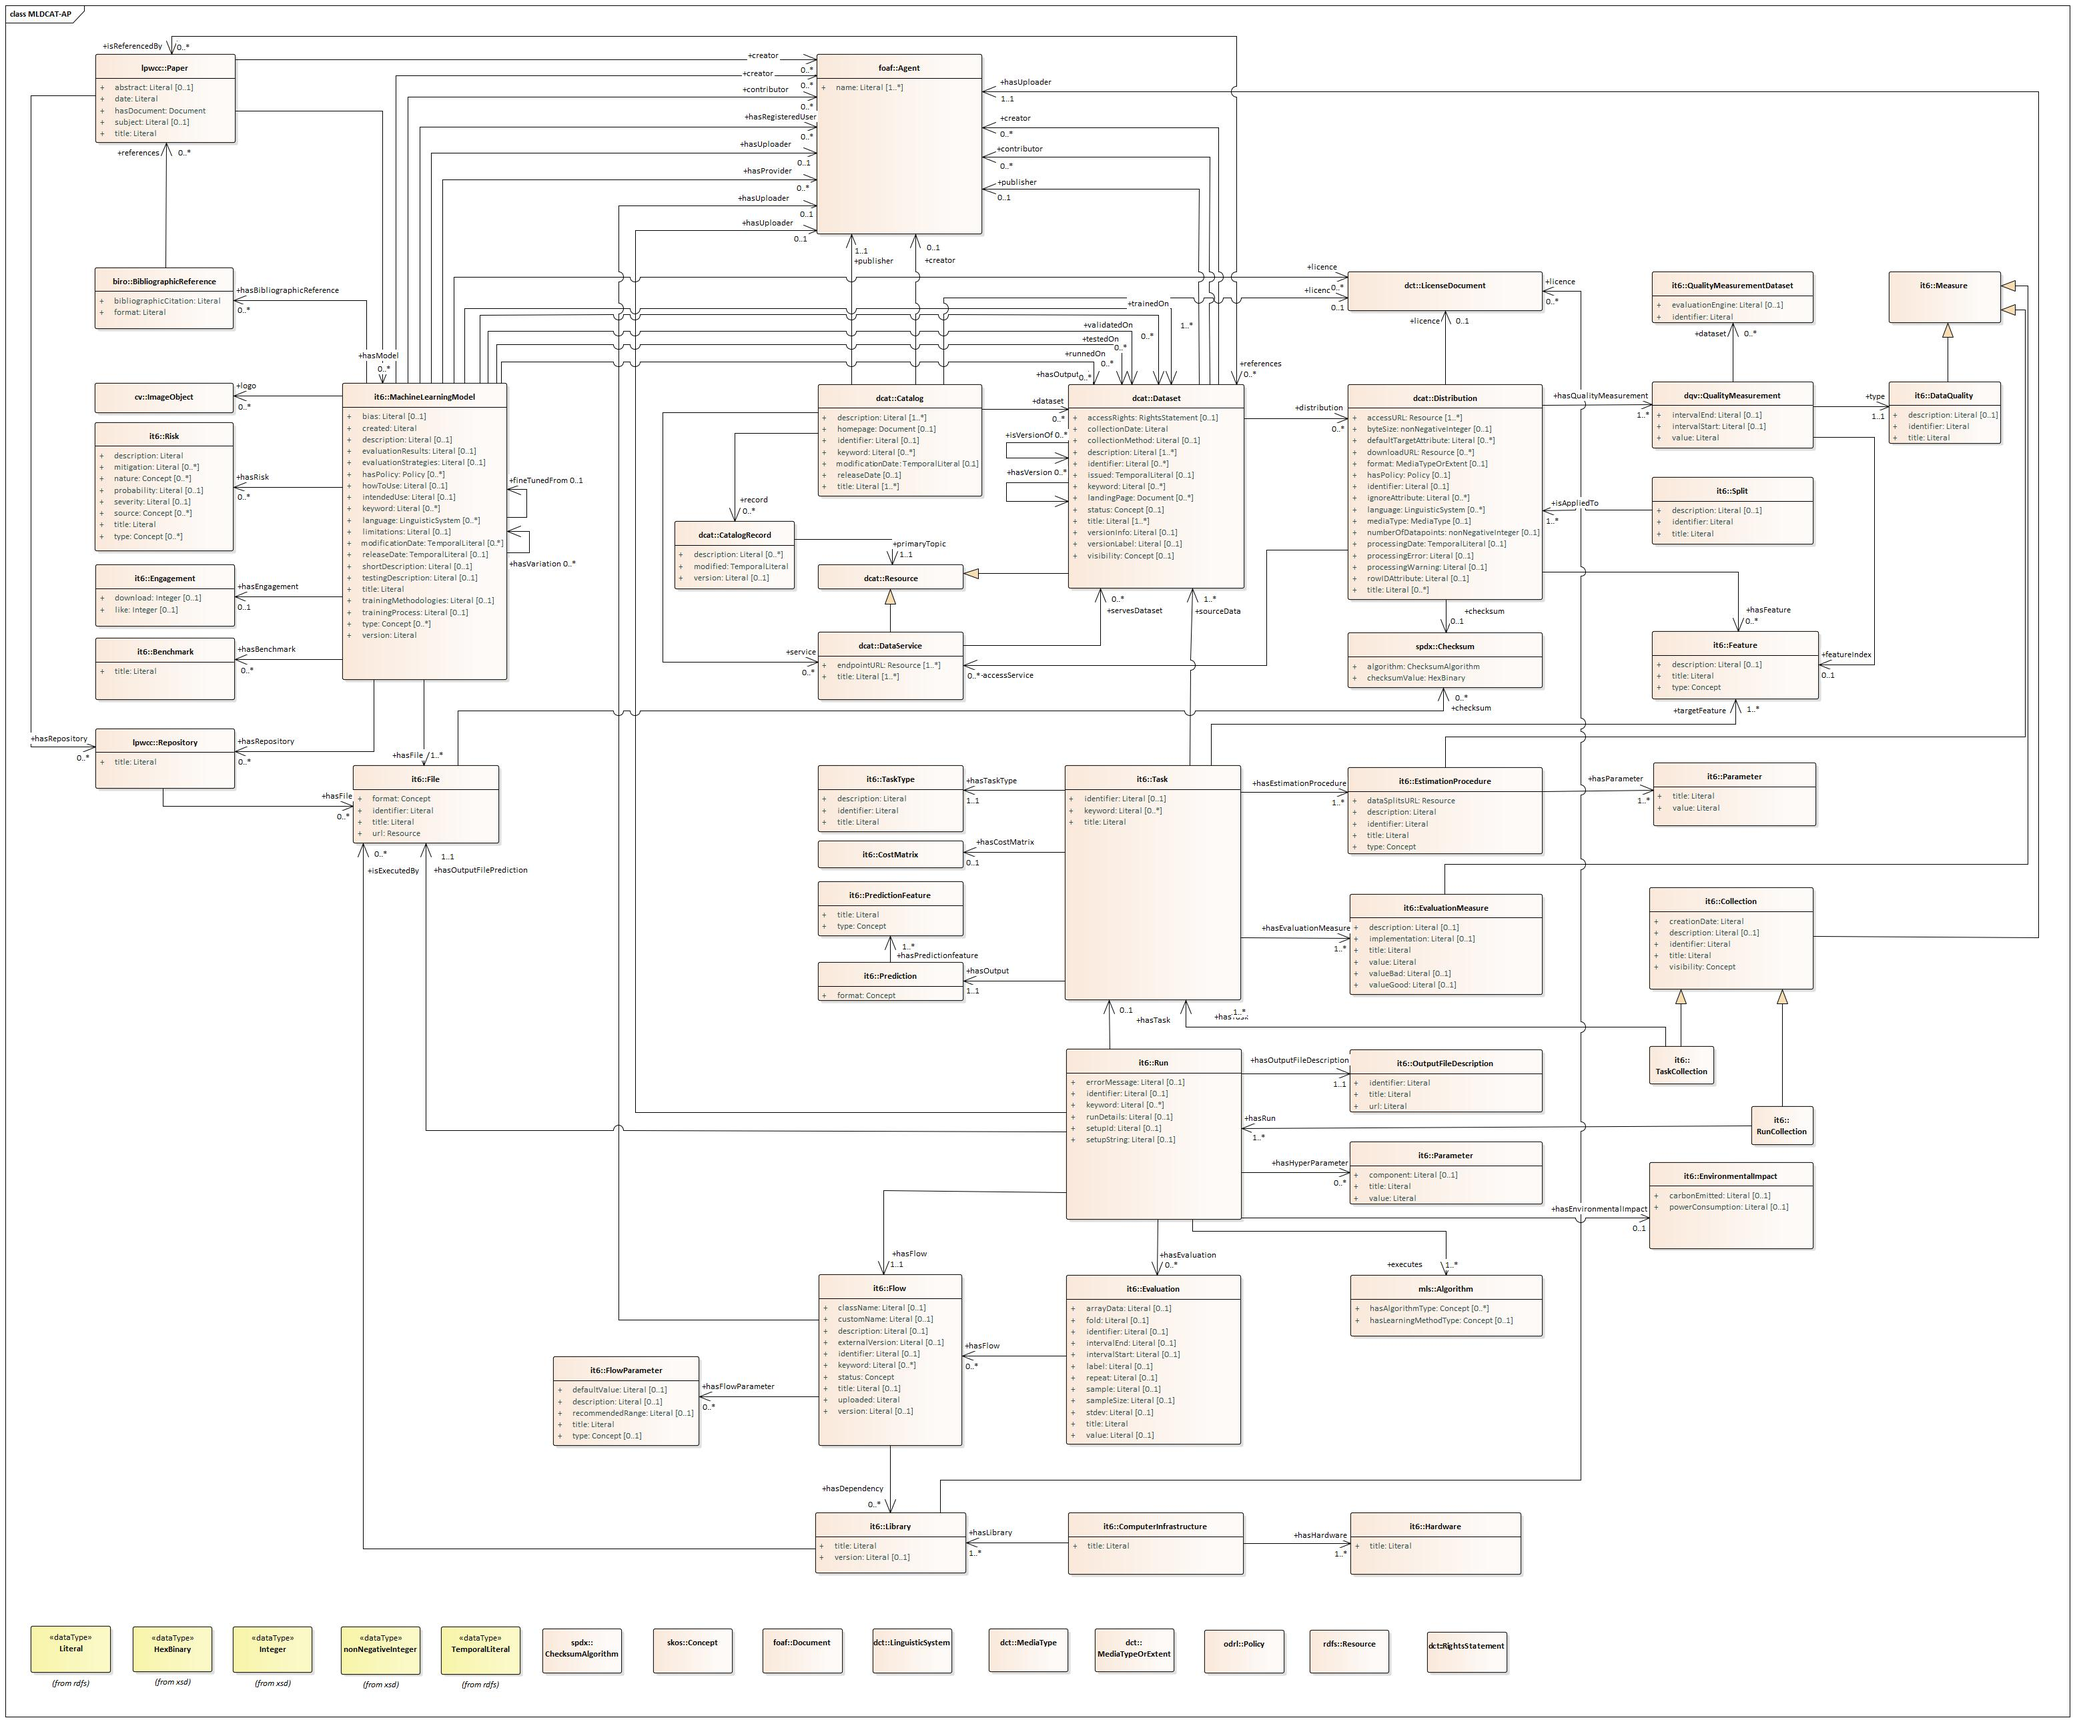
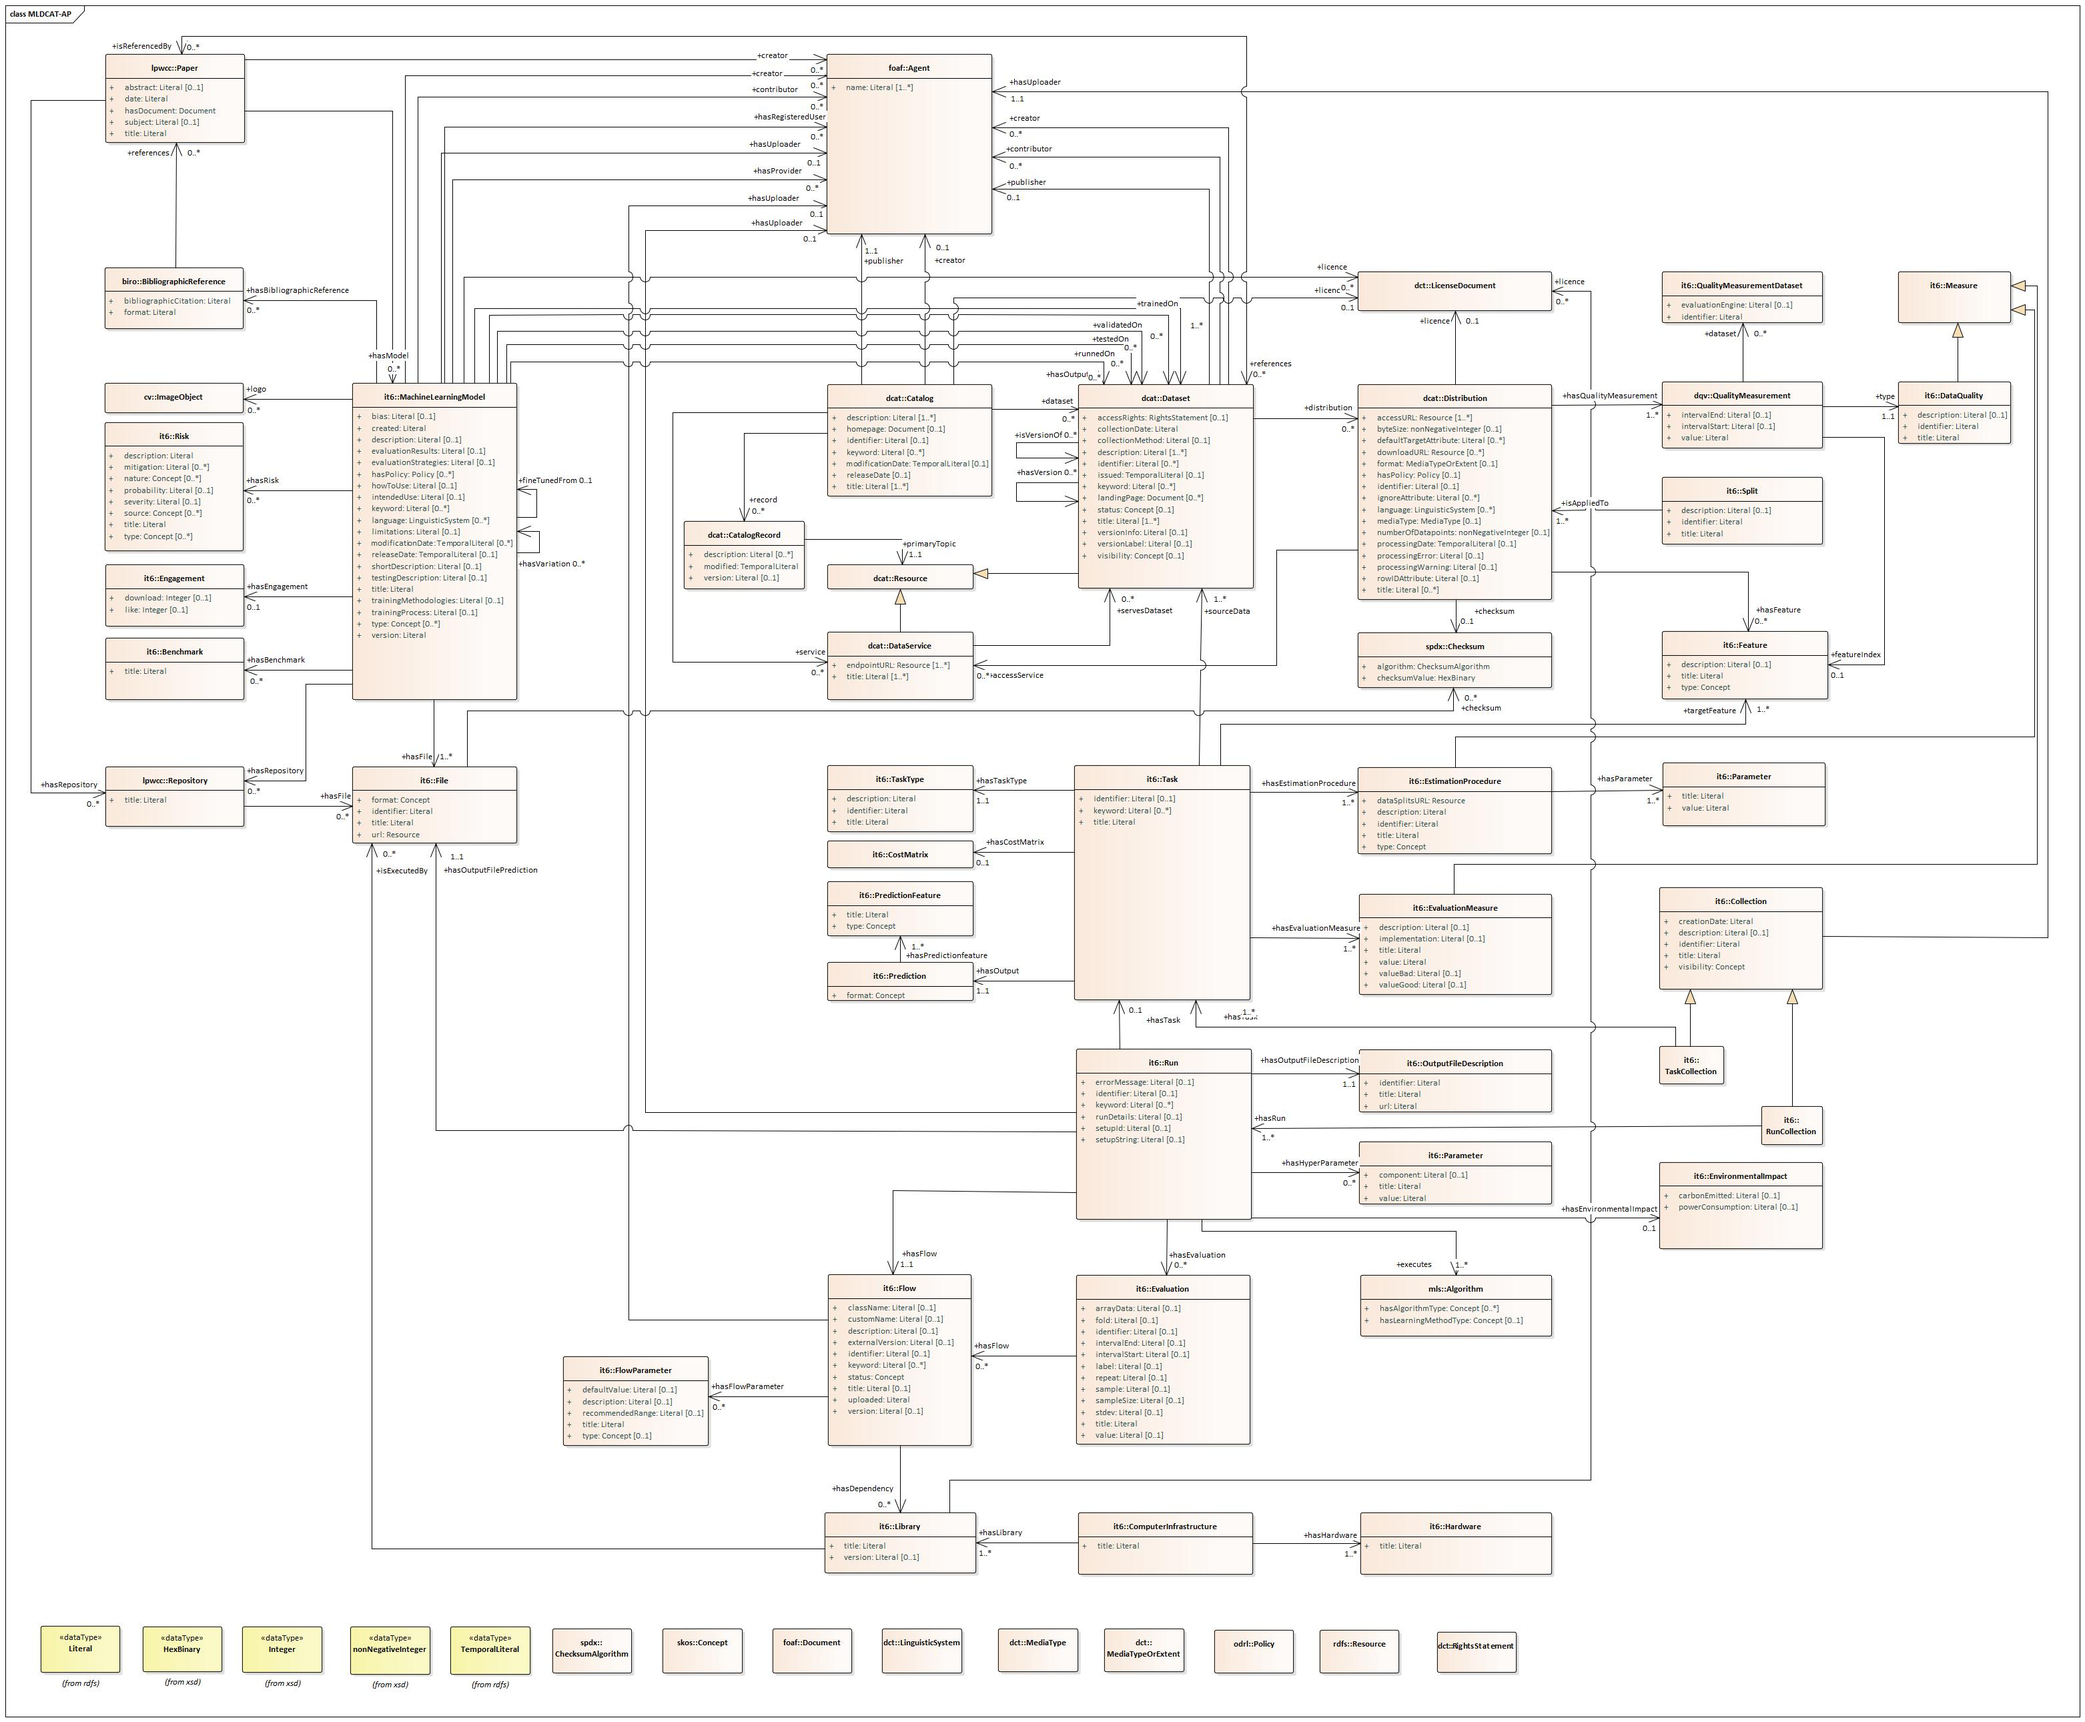
improved diagram and added mappings

diff --git a/releases/2.1.0/index.html b/releases/2.1.0/index.html
@@ -8216,7 +8216,7 @@ They are included in the Application Profile because they form the range of prop
                     Definition
                 </dt>
                 <dd>
-                    
+                    An idea or notion; a unit of thought.
                 </dd>
                 
                 
@@ -16151,7 +16151,10 @@ SEMIC uses and will use the RDFS lexicalisation for all of its specifications. M
 
 <section class="informative">
 	<h2>Mappings</h2>
-    A mapping towards Croissant can be found <a href="https://github.com/SEMICeu/Semantic-Mappings/tree/main/MLDCAT-AP">here</a>
+	<ul>
+		<li>A mapping towards Croissant can be found <a href="https://github.com/SEMICeu/Semantic-Mappings/tree/main/MLDCAT-AP/ML%20Croissant">here</a></li>
+		<li>A mapping towards FAIR4ML can be found <a href="https://github.com/SEMICeu/Semantic-Mappings/tree/main/MLDCAT-AP/FAIR4ML">here</a></li>
+	</ul>
 </section>
  
 
@@ -20278,12 +20281,12 @@ The properties are indicated as <it>mandatory, recommended, optional</it> and <i
 {'pref':'dqv:', 'ns': 'http://www.w3.org/ns/dqv#'},
 {'pref':'foaf:', 'ns': 'http://xmlns.com/foaf/0.1/'},
 {'pref':'it6:', 'ns': 'http://data.europa.eu/it6/'},
+{'pref':'lpwcc:', 'ns': 'https://linkedpaperswithcode.com/class/'},
+{'pref':'lpwc:', 'ns': 'https://linkedpaperswithcode.com/property/'},
 {'pref':'mls:', 'ns': 'http://www.w3.org/ns/mls#'},
 {'pref':'mlso:', 'ns': 'http://w3id.org/mlso/'},
 {'pref':'odrl:', 'ns': 'http://www.w3.org/ns/odrl/2/'},
 {'pref':'owl:', 'ns': 'http://www.w3.org/2002/07/owl#'},
-{'pref':'lpwc:', 'ns': 'https://linkedpaperswithcode.com/class/'},
-{'pref':'lpwc-p:', 'ns': 'https://linkedpaperswithcode.com/property/'},
 {'pref':'qb:', 'ns': 'http://purl.org/linked-data/cube#'},
 {'pref':'rdf:', 'ns': 'http://www.w3.org/1999/02/22-rdf-syntax-ns#'},
 {'pref':'rdfs:', 'ns': 'http://www.w3.org/2000/01/rdf-schema#'},

diff --git a/releases/2.1.0/index_en.html b/releases/2.1.0/index_en.html
@@ -8216,7 +8216,7 @@ They are included in the Application Profile because they form the range of prop
                     Definition
                 </dt>
                 <dd>
-                    
+                    An idea or notion; a unit of thought.
                 </dd>
                 
                 
@@ -16151,7 +16151,10 @@ SEMIC uses and will use the RDFS lexicalisation for all of its specifications. M
 
 <section class="informative">
 	<h2>Mappings</h2>
-    A mapping towards Croissant can be found <a href="https://github.com/SEMICeu/Semantic-Mappings/tree/main/MLDCAT-AP">here</a>
+	<ul>
+		<li>A mapping towards Croissant can be found <a href="https://github.com/SEMICeu/Semantic-Mappings/tree/main/MLDCAT-AP/ML%20Croissant">here</a></li>
+		<li>A mapping towards FAIR4ML can be found <a href="https://github.com/SEMICeu/Semantic-Mappings/tree/main/MLDCAT-AP/FAIR4ML">here</a></li>
+	</ul>
 </section>
  
 
@@ -20278,12 +20281,12 @@ The properties are indicated as <it>mandatory, recommended, optional</it> and <i
 {'pref':'dqv:', 'ns': 'http://www.w3.org/ns/dqv#'},
 {'pref':'foaf:', 'ns': 'http://xmlns.com/foaf/0.1/'},
 {'pref':'it6:', 'ns': 'http://data.europa.eu/it6/'},
+{'pref':'lpwcc:', 'ns': 'https://linkedpaperswithcode.com/class/'},
+{'pref':'lpwc:', 'ns': 'https://linkedpaperswithcode.com/property/'},
 {'pref':'mls:', 'ns': 'http://www.w3.org/ns/mls#'},
 {'pref':'mlso:', 'ns': 'http://w3id.org/mlso/'},
 {'pref':'odrl:', 'ns': 'http://www.w3.org/ns/odrl/2/'},
 {'pref':'owl:', 'ns': 'http://www.w3.org/2002/07/owl#'},
-{'pref':'lpwc:', 'ns': 'https://linkedpaperswithcode.com/class/'},
-{'pref':'lpwc-p:', 'ns': 'https://linkedpaperswithcode.com/property/'},
 {'pref':'qb:', 'ns': 'http://purl.org/linked-data/cube#'},
 {'pref':'rdf:', 'ns': 'http://www.w3.org/1999/02/22-rdf-syntax-ns#'},
 {'pref':'rdfs:', 'ns': 'http://www.w3.org/2000/01/rdf-schema#'},
